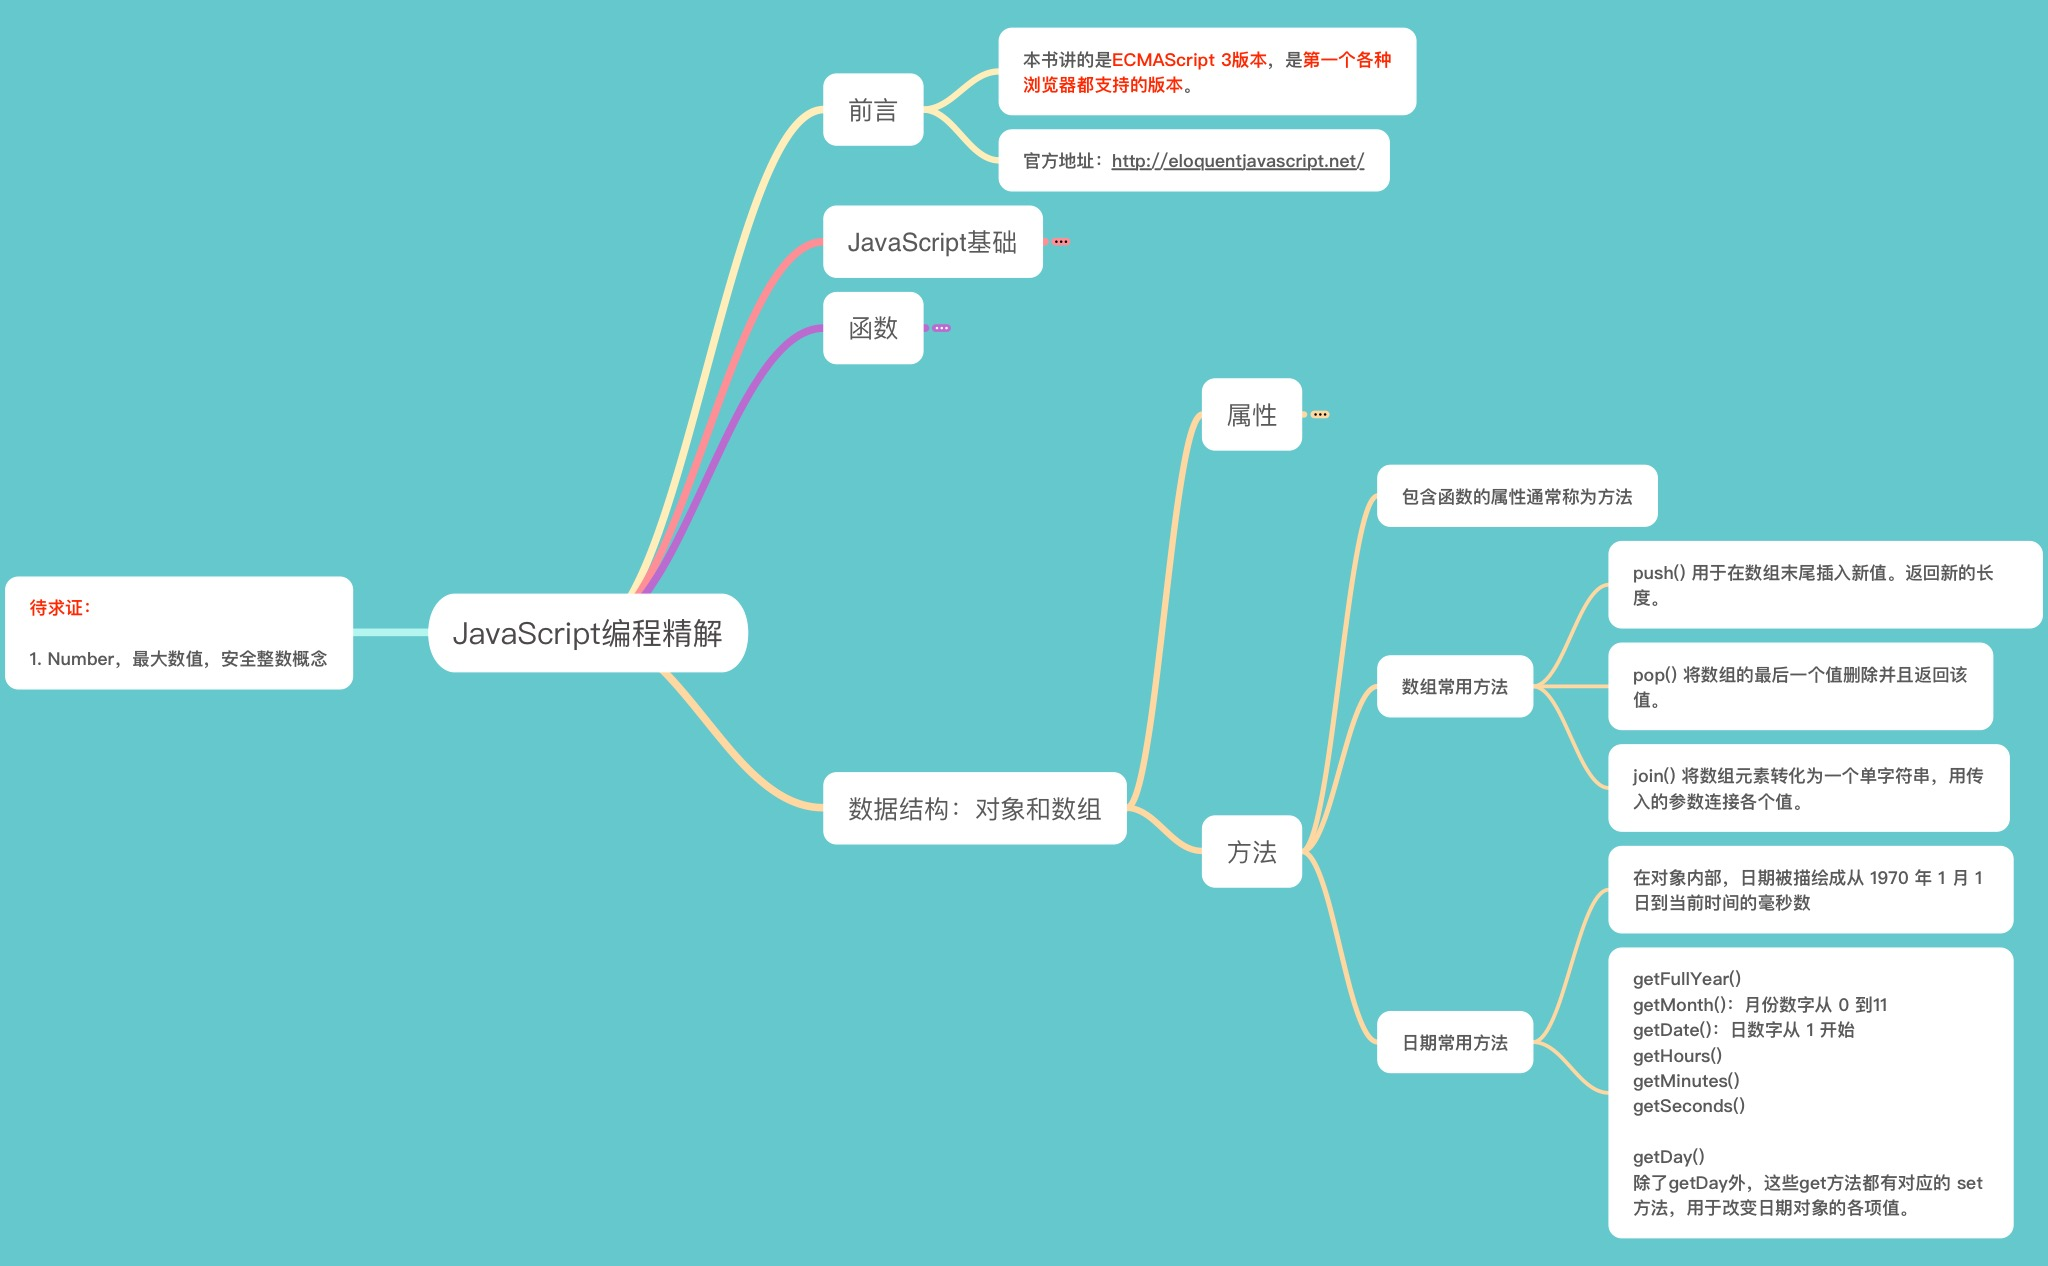
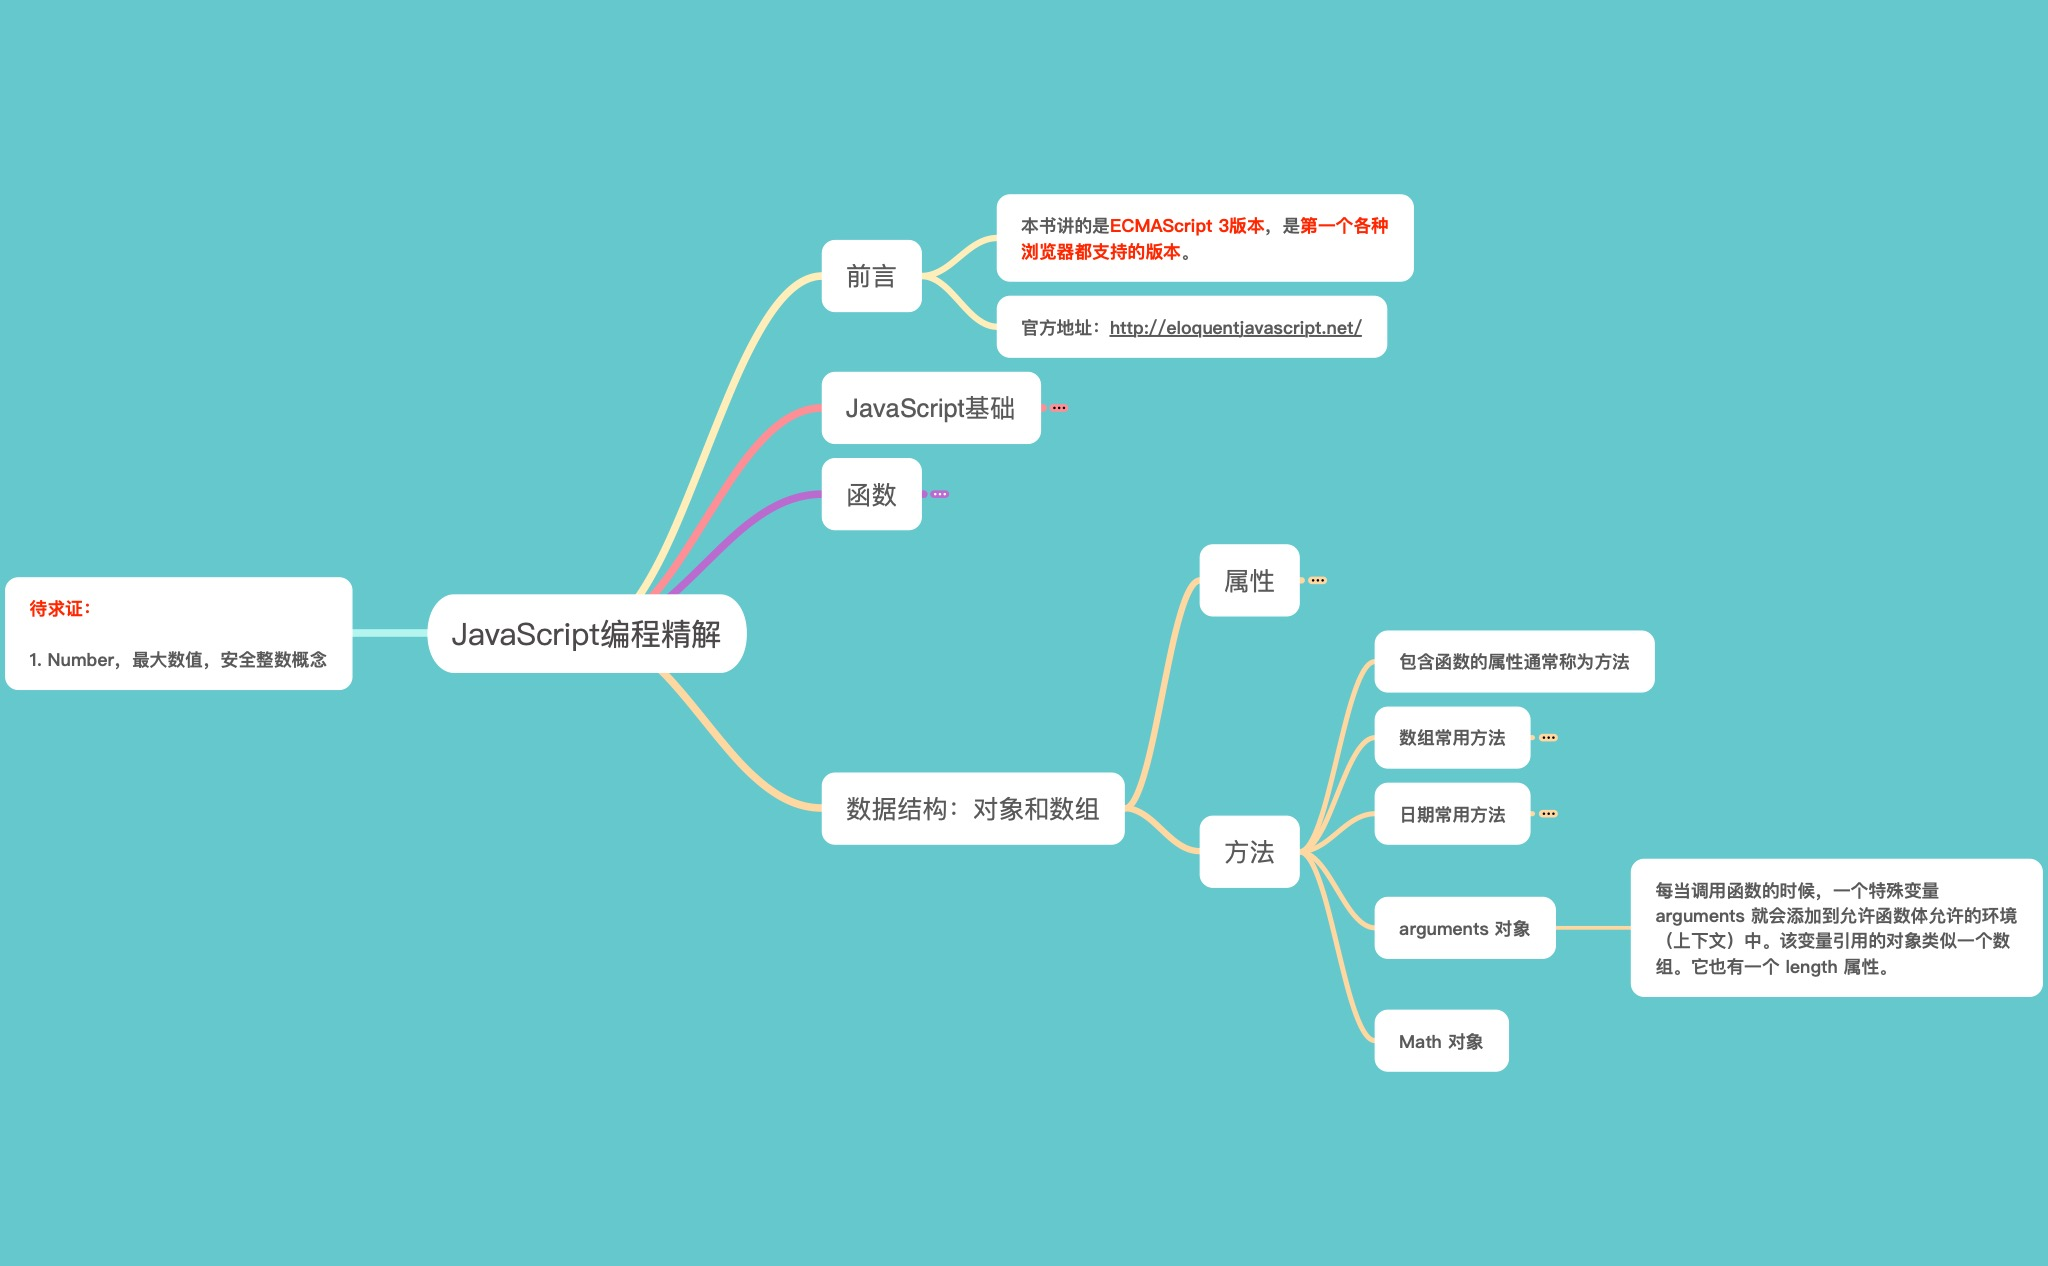
arguments 对象

diff --git a/ES6/sample code/sum.js b/ES6/sample code/sum.js
@@ -1,0 +1,22 @@
+function range(start, end) {
+    if (arguments.length < 2) {
+        end = start;
+        start = 0;
+        console.log('start: ', start, 'end: ', end);
+    }
+    var result = [];
+    for (var i = start; i <= end; i++) {
+        result.push(i);
+    }
+    console.log('result: ', result);
+    return result;
+}
+
+function sum(numbers) {
+    var total = 0;
+    for (var i = 0; i < numbers.length; i++) {
+        total += numbers[i];
+    }
+    return total;
+}
+// console.log(sum(range(1,10)));

diff --git a/ES6/sample code/export.js b/ES6/sample code/export.js
@@ -1,1 +1,2 @@
 import './cats.js';
+import './sum.js';
